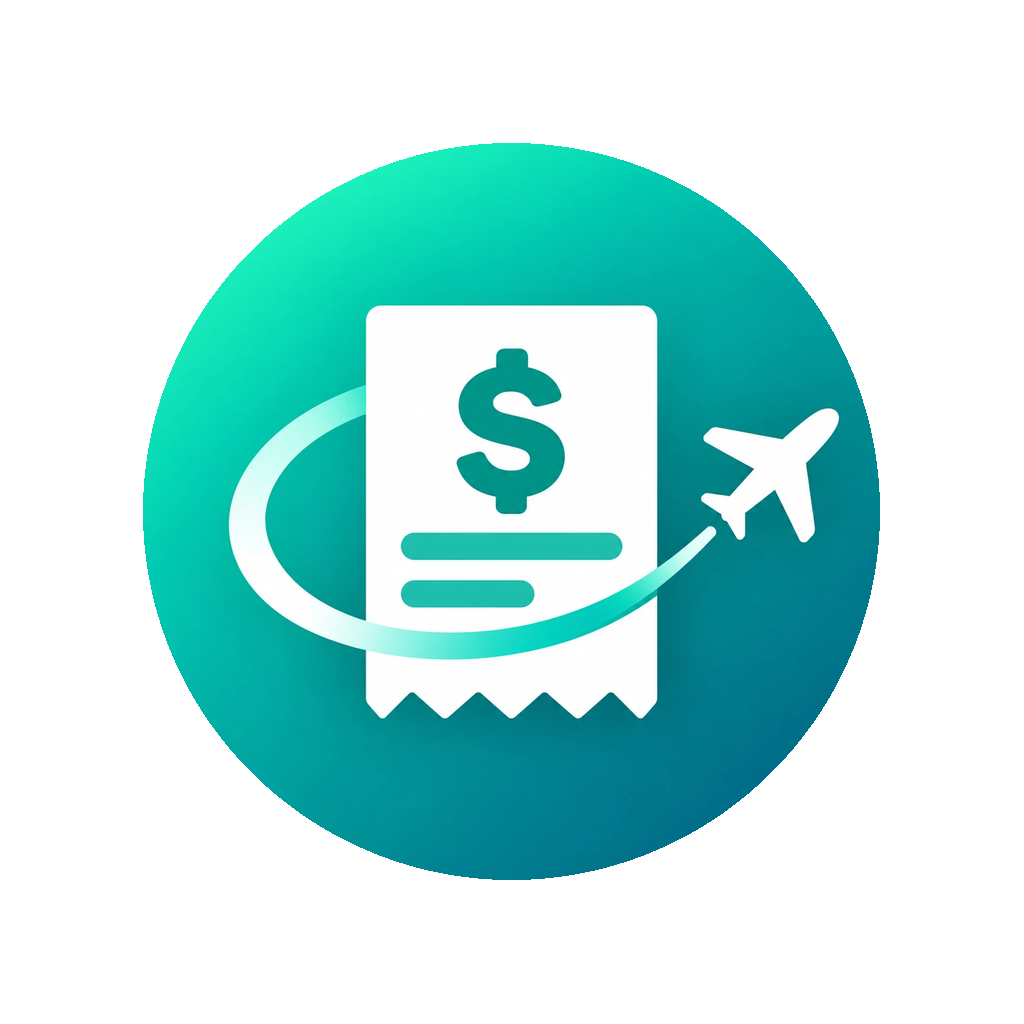
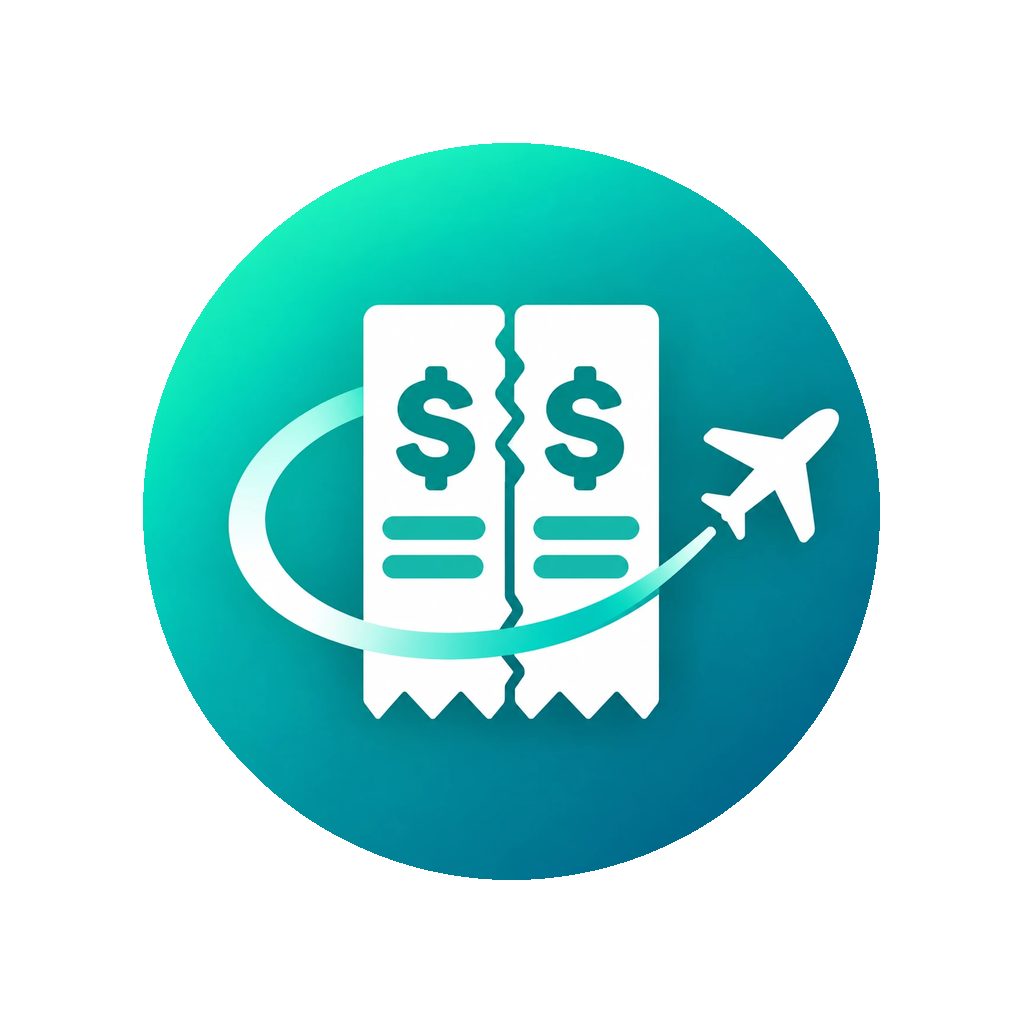
Acento verde-azulado, do ícone para o app inteiro
O roxo foi escolhido quando não havia ícone nenhum. Com o ícone definido, em
vez de repintar a arte para servir ao token, o token passou a servir à arte —
e como toda tela lê de `tokens.ts`, a troca não tocou em componente algum.

Dois tons por tema, porque o escuro precisa de mais luz para o mesmo peso:
#0E9E94 no claro, #35C9BE no escuro, com os respectivos `accentSoft`.

O site acompanha, e ganha de quebra o que faltava: a marca dele era um SVG do
ícone antigo, desenhado à mão e já desatualizado duas trocas atrás. Agora é o
próprio `icon.png` reduzido, então nunca mais diverge.

A arte nova diz melhor o que o app faz — o recibo rasgado em dois é a conta
dividida, não uma metáfora de viagem com dinheiro em volta. Conferida a 60px
antes de entrar, que é onde as duas anteriores falharam.

Fica um roxo em `cover_color`, campo gravado e sincronizado que nenhuma tela
lê. Invisível, e mexer na migração antiga por causa dele seria pior.

Claude-Session: https://claude.ai/code/session_01DvD7AHdhSnebqbDKwv2eQD

Changed region(s): [[0.3438, 0.2812, 0.625, 0.7188], [0.3438, 0.6562, 0.4062, 0.6875], [0.5938, 0.6562, 0.625, 0.6875]]

diff --git a/web/index.html b/web/index.html
@@ -8,12 +8,12 @@
 <style>
   :root {
     --bg: #FAF7F2; --surface: #FFFFFF; --text: #1F1B16; --muted: #7A7168;
-    --border: #E8E1D7; --accent: #6D4AFF; --on-accent: #FFFFFF;
+    --border: #E8E1D7; --accent: #0E9E94; --on-accent: #FFFFFF;
   }
   @media (prefers-color-scheme: dark) {
     :root {
       --bg: #16141A; --surface: #201D26; --text: #F5F1EC; --muted: #A49CB0;
-      --border: #322D3B; --accent: #9B7BFF; --on-accent: #16141A;
+      --border: #322D3B; --accent: #35C9BE; --on-accent: #16141A;
     }
   }
   * { box-sizing: border-box; }
@@ -23,7 +23,7 @@
     padding: 0 16px;
   }
   main { max-width: 680px; margin: 0 auto; padding: 72px 0 80px; }
-  .mark { width: 60px; height: 60px; display: block; margin-bottom: 28px; }
+  .mark { width: 60px; height: 60px; display: block; margin-bottom: 28px; border-radius: 14px; }
   h1 { font-size: 36px; line-height: 1.15; letter-spacing: -0.03em; margin: 0 0 12px; }
   .lede { font-size: 19px; color: var(--muted); margin: 0 0 40px; max-width: 34ch; }
   h2 { font-size: 19px; letter-spacing: -0.01em; margin: 44px 0 10px; }
@@ -46,14 +46,7 @@
 </head>
 <body>
 <main>
-  <svg class="mark" viewBox="0 0 100 100" aria-hidden="true">
-    <g fill="var(--accent)">
-      <path d="M50 50 L52.7 6.1 A44 44 0 0 1 74.3 86.7 Z"/>
-      <path d="M50 50 L69.6 89.4 A44 44 0 0 1 6.1 52.7 Z"/>
-      <path d="M50 50 L6.1 47.3 A44 44 0 0 1 47.3 6.1 Z"/>
-    </g>
-    <circle cx="50" cy="50" r="17" fill="var(--bg)"/>
-  </svg>
+  <img class="mark" src="./icone.png" alt="" width="60" height="60">
 
   <h1>RachaPila</h1>
   <p class="lede">Dividir as contas da viagem entre amigos, sem planilha e sem discussão no fim.</p>

diff --git a/web/convite.html b/web/convite.html
@@ -9,12 +9,12 @@
 <style>
   :root {
     --bg: #FAF7F2; --surface: #FFFFFF; --text: #1F1B16; --muted: #7A7168;
-    --border: #E8E1D7; --accent: #6D4AFF; --on-accent: #FFFFFF;
+    --border: #E8E1D7; --accent: #0E9E94; --on-accent: #FFFFFF;
   }
   @media (prefers-color-scheme: dark) {
     :root {
       --bg: #16141A; --surface: #201D26; --text: #F5F1EC; --muted: #A49CB0;
-      --border: #322D3B; --accent: #9B7BFF; --on-accent: #16141A;
+      --border: #322D3B; --accent: #35C9BE; --on-accent: #16141A;
     }
   }
   * { box-sizing: border-box; }
@@ -24,7 +24,7 @@
     padding: 0 16px;
   }
   main { max-width: 480px; margin: 0 auto; padding: 56px 0 72px; text-align: center; }
-  .mark { width: 60px; height: 60px; display: block; margin: 0 auto 24px; }
+  .mark { width: 60px; height: 60px; display: block; margin: 0 auto 24px; border-radius: 14px; }
   h1 { font-size: 28px; line-height: 1.2; letter-spacing: -0.02em; margin: 0 0 8px; }
   .lede { color: var(--muted); margin: 0 0 32px; }
   .btn {
@@ -51,14 +51,7 @@
 </head>
 <body>
 <main>
-  <svg class="mark" viewBox="0 0 100 100" aria-hidden="true">
-    <g fill="var(--accent)">
-      <path d="M50 50 L52.7 6.1 A44 44 0 0 1 74.3 86.7 Z"/>
-      <path d="M50 50 L69.6 89.4 A44 44 0 0 1 6.1 52.7 Z"/>
-      <path d="M50 50 L6.1 47.3 A44 44 0 0 1 47.3 6.1 Z"/>
-    </g>
-    <circle cx="50" cy="50" r="17" fill="var(--bg)"/>
-  </svg>
+  <img class="mark" src="./icone.png" alt="" width="60" height="60">
 
   <h1>Você foi convidado</h1>
   <p class="lede">Entre na viagem para lançar despesas junto com o grupo.</p>

diff --git a/web/privacidade.html b/web/privacidade.html
@@ -8,12 +8,12 @@
 <style>
   :root {
     --bg: #FAF7F2; --surface: #FFFFFF; --text: #1F1B16; --muted: #7A7168;
-    --border: #E8E1D7; --accent: #6D4AFF;
+    --border: #E8E1D7; --accent: #0E9E94;
   }
   @media (prefers-color-scheme: dark) {
     :root {
       --bg: #16141A; --surface: #201D26; --text: #F5F1EC; --muted: #A49CB0;
-      --border: #322D3B; --accent: #9B7BFF;
+      --border: #322D3B; --accent: #35C9BE;
     }
   }
   * { box-sizing: border-box; }
@@ -23,7 +23,7 @@
     padding: 0 16px;
   }
   main { max-width: 680px; margin: 0 auto; padding: 56px 0 80px; }
-  .mark { width: 44px; height: 44px; display: block; margin-bottom: 28px; }
+  .mark { width: 44px; height: 44px; display: block; margin-bottom: 28px; border-radius: 10px; }
   h1 { font-size: 30px; line-height: 1.2; letter-spacing: -0.02em; margin: 0 0 8px; }
   h2 { font-size: 19px; letter-spacing: -0.01em; margin: 40px 0 10px; }
   .updated { color: var(--muted); font-size: 14px; margin: 0 0 40px; }
@@ -42,14 +42,7 @@
 </head>
 <body>
 <main>
-  <svg class="mark" viewBox="0 0 100 100" aria-hidden="true">
-    <g fill="var(--accent)">
-      <path d="M50 50 L52.7 6.1 A44 44 0 0 1 74.3 86.7 Z"/>
-      <path d="M50 50 L69.6 89.4 A44 44 0 0 1 6.1 52.7 Z"/>
-      <path d="M50 50 L6.1 47.3 A44 44 0 0 1 47.3 6.1 Z"/>
-    </g>
-    <circle cx="50" cy="50" r="17" fill="var(--bg)"/>
-  </svg>
+  <img class="mark" src="./icone.png" alt="" width="60" height="60">
 
   <h1>Privacidade no RachaPila</h1>
   <p class="updated">Última atualização: 19 de setembro de 2026</p>

diff --git a/src/ui/tokens.ts b/src/ui/tokens.ts
@@ -1,6 +1,11 @@
 /**
  * Tokens do design system (spec §11).
  *
+ * O acento era roxo até o app ganhar ícone. O ícone veio verde-azulado, e em
+ * vez de repintar a arte para servir ao token — que foi escolhido quando não
+ * havia ícone nenhum —, o token passou a servir à arte. Tudo lê daqui, então
+ * a troca não tocou em tela alguma.
+ *
  * As cores são SEMÂNTICAS: `bg`, `text`, `positive`. Nenhuma tela conhece um
  * hexadecimal — é isso que faz o tema escuro ser uma troca de tabela em vez de
  * uma varredura por arquivos.
@@ -109,8 +114,8 @@ export const LIGHT: Palette = {
   textMuted: '#7A7168',
   textFaint: '#A79C90',
   border: '#E8E1D7',
-  accent: '#6D4AFF',
-  accentSoft: '#EFEAFF',
+  accent: '#0E9E94',
+  accentSoft: '#E2F5F3',
   onAccent: '#FFFFFF',
   positive: '#1F8A5B',
   positiveSoft: '#E3F5EC',
@@ -130,8 +135,8 @@ export const DARK: Palette = {
   textMuted: '#A49CB0',
   textFaint: '#6F6880',
   border: '#322D3B',
-  accent: '#9B7BFF',
-  accentSoft: '#2A2338',
+  accent: '#35C9BE',
+  accentSoft: '#16302E',
   onAccent: '#16141A',
   positive: '#38C08A',
   positiveSoft: '#16302A',

diff --git a/src/config/app.ts b/src/config/app.ts
@@ -15,7 +15,7 @@ export const APP_NAME = 'RachaPila';
  *
  * Suba este número a cada correção enviada para teste.
  */
-export const APP_BUILD = 'b48';
+export const APP_BUILD = 'b49';
 
 /**
  * Onde a página pública do app está hospedada, sem barra no fim.
